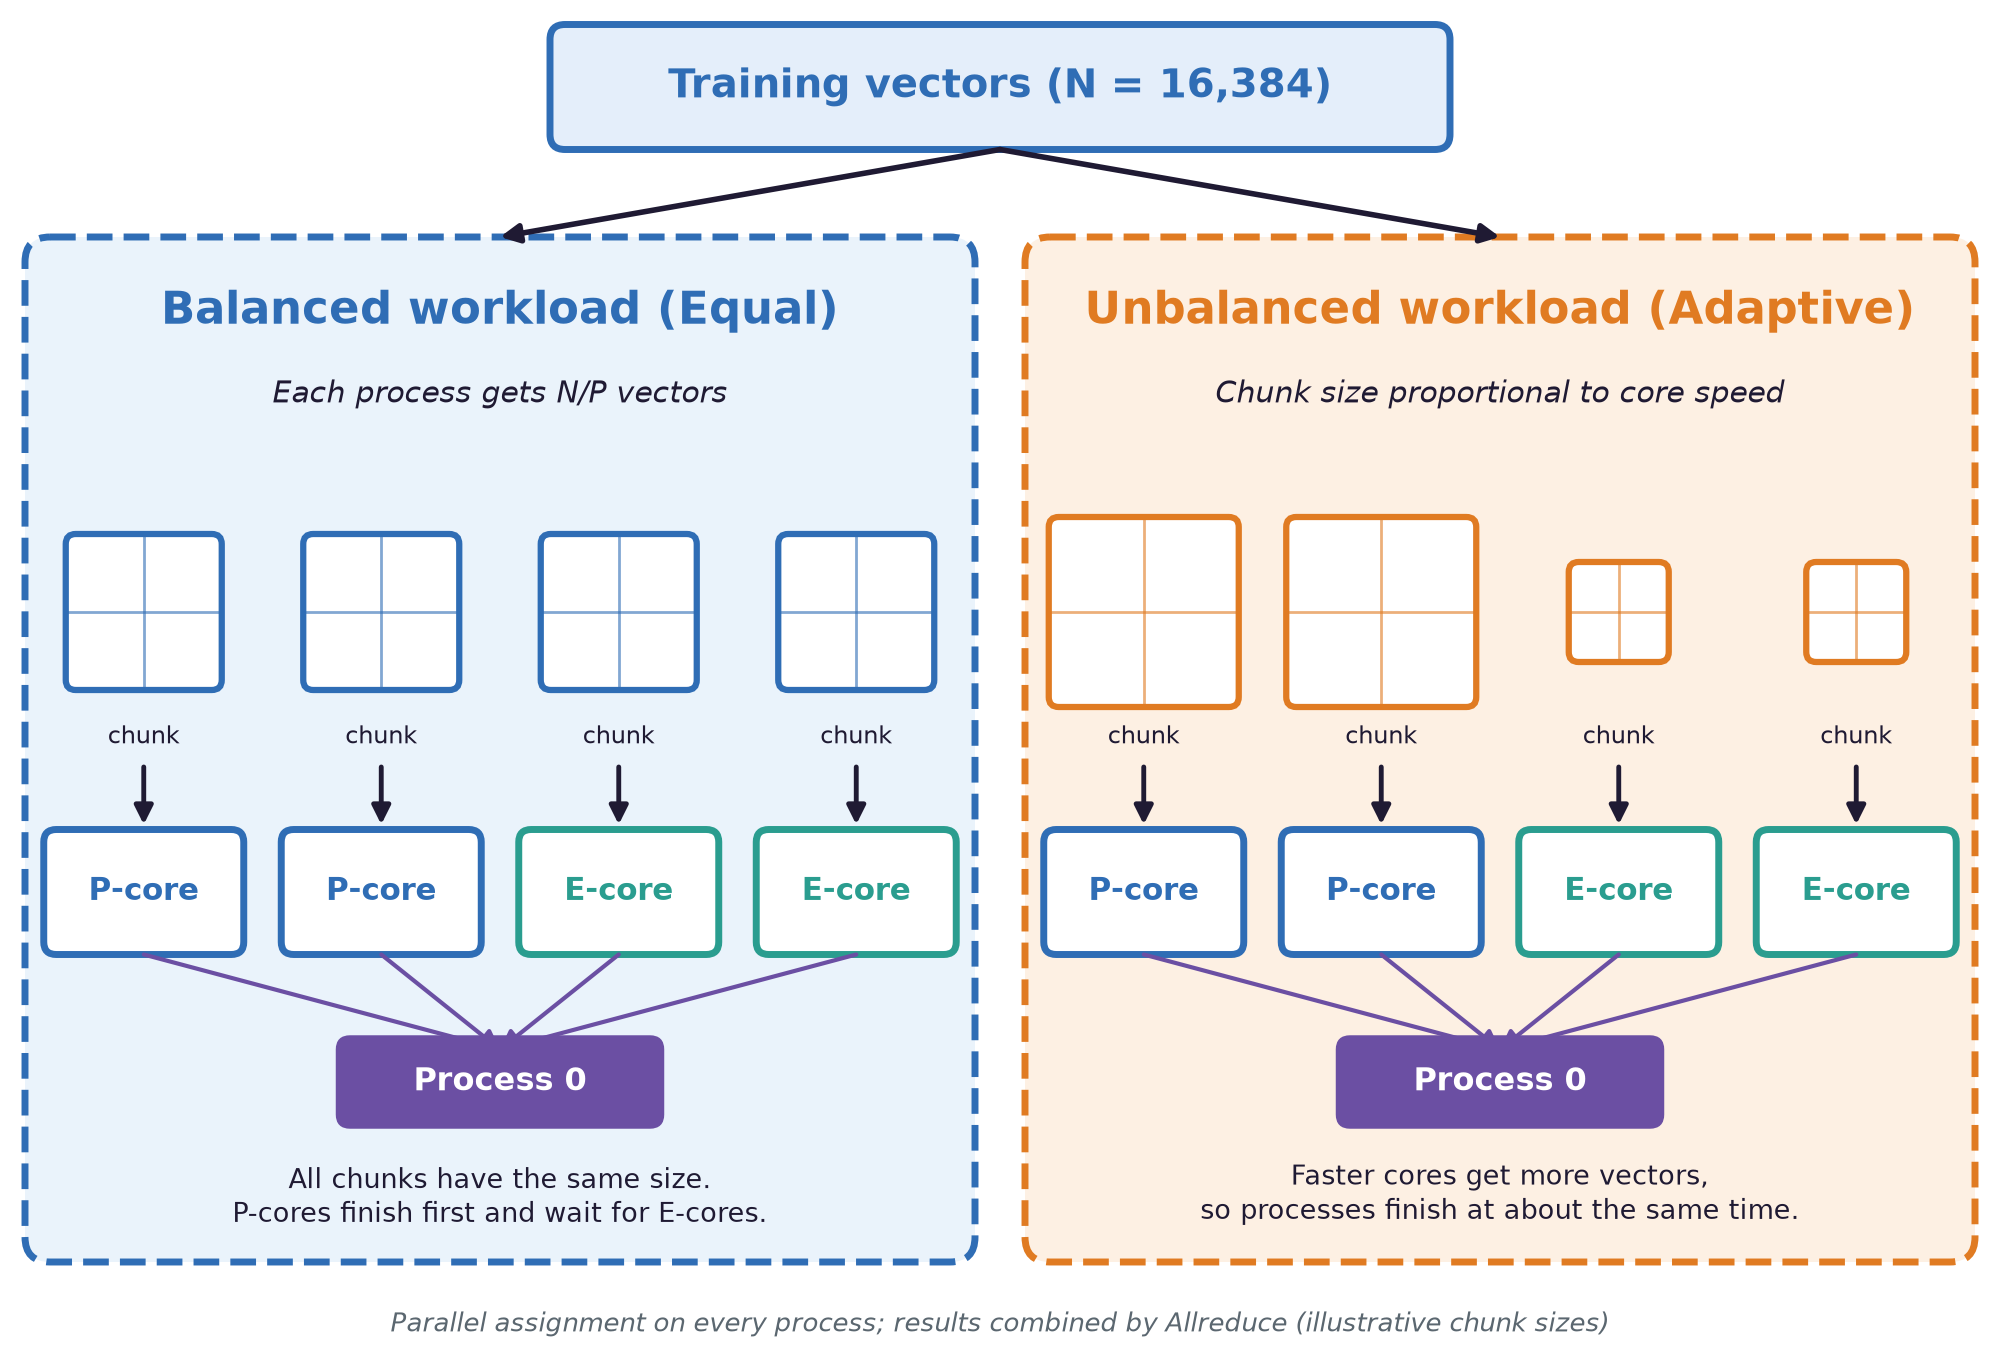
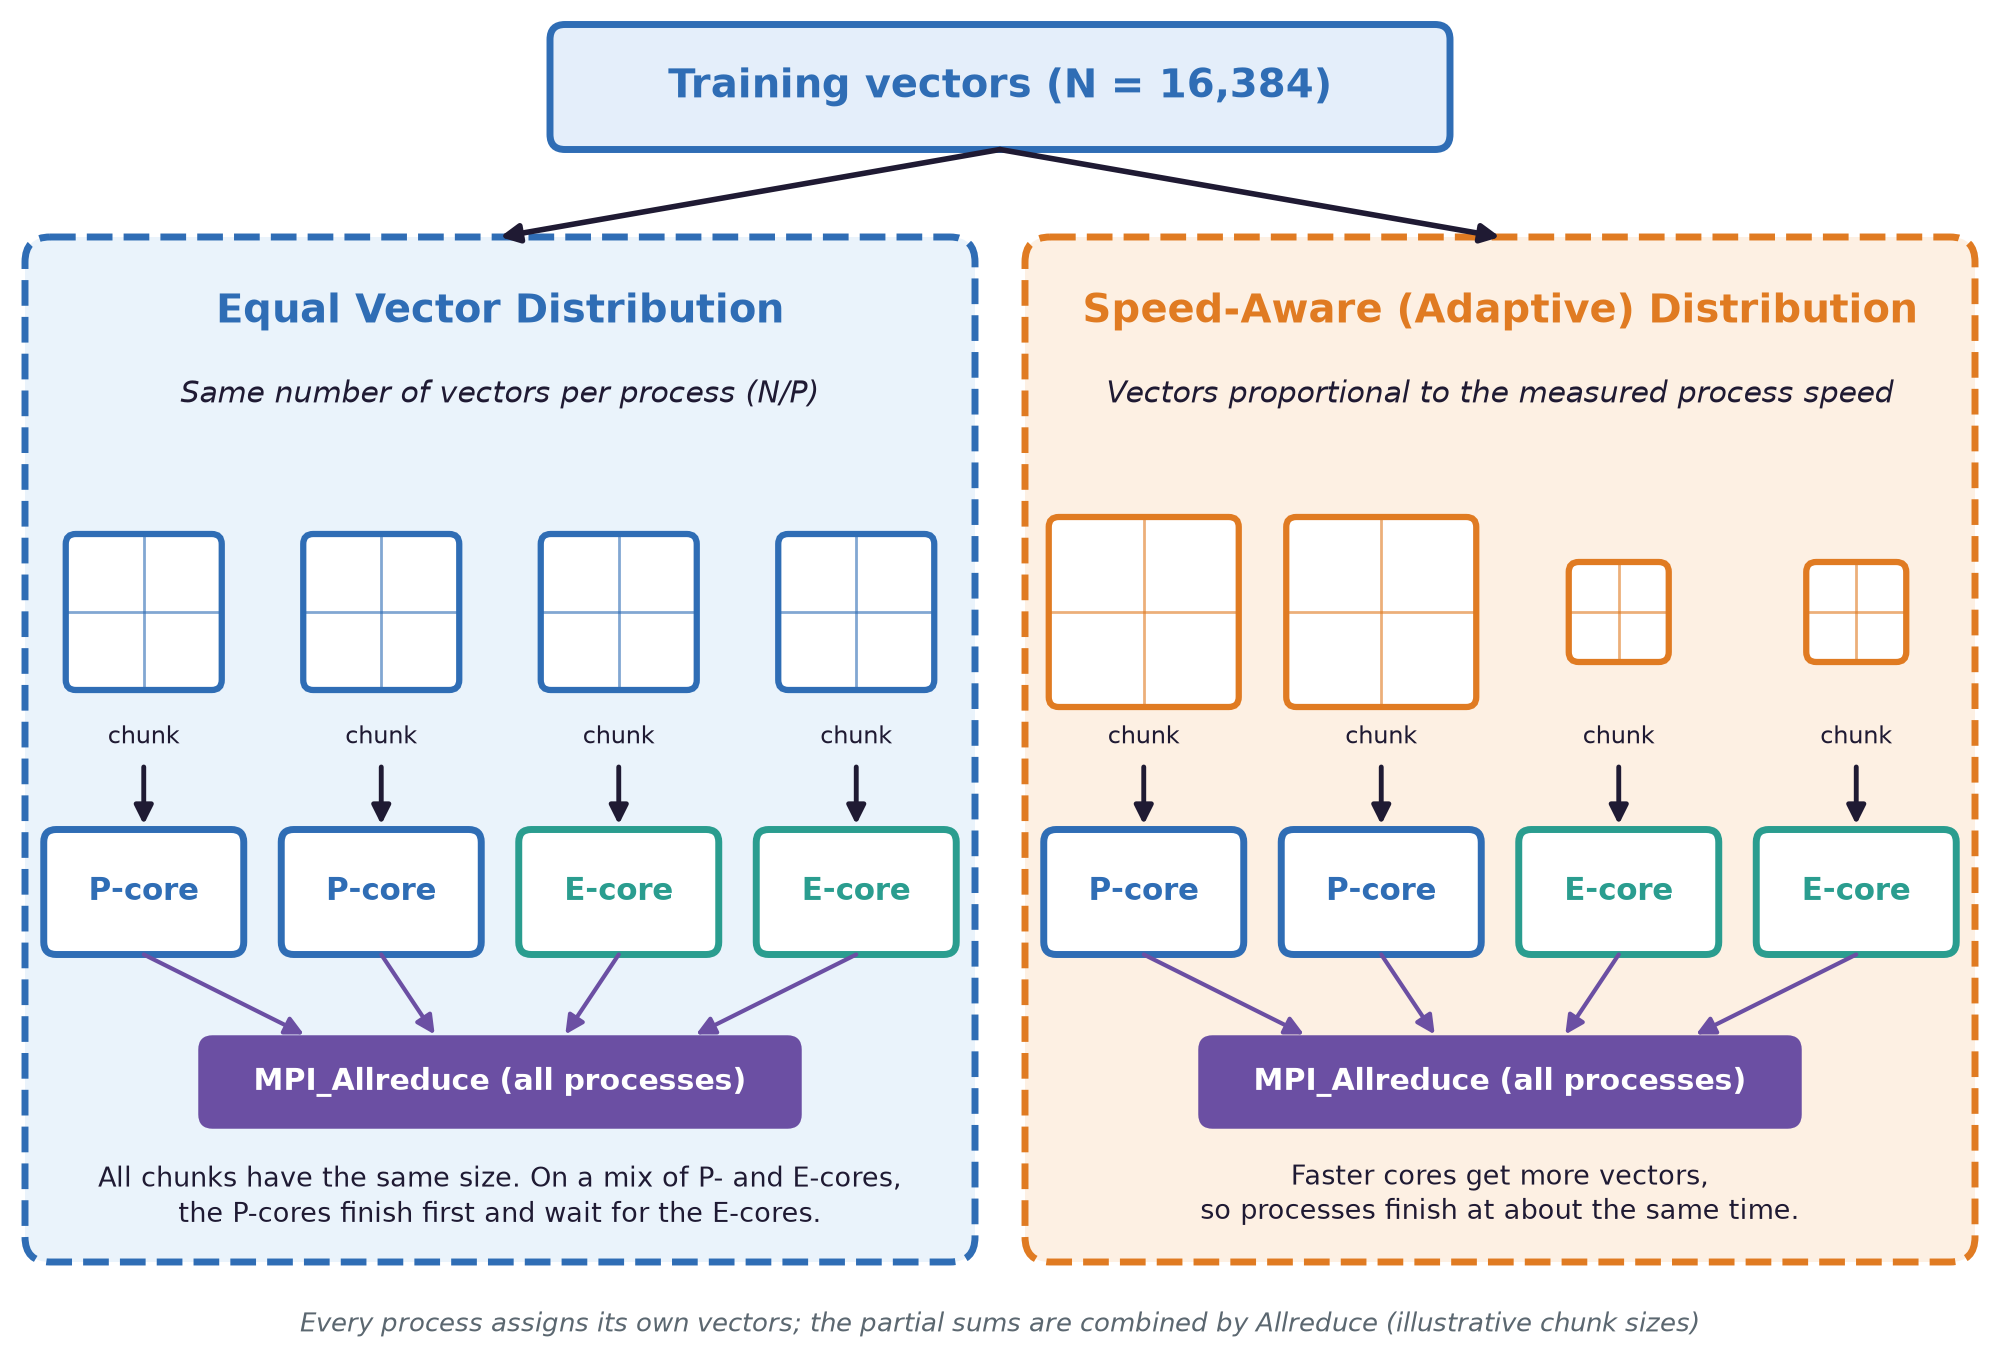
Seminar figures: generic MPI workflow + corrected Equal/Adaptive comparison
Claude-Session: https://claude.ai/code/session_01T6gEewJ8YaCdmnsfS34RJd

diff --git a/results/seminar/make_workload_fig.py b/results/seminar/make_workload_fig.py
@@ -12,15 +12,15 @@ def arrow(x1,y1,x2,y2,col=INK,lw=1.4):
 # top
 box(2.2,0.1,3.6,0.5,"#E4EEFA",BLUE,2)
 ax.text(4,0.35,"Training vectors (N = 16,384)",ha="center",va="center",fontsize=11.5,fontweight="bold",color=BLUE)
-panels=[(0.1,"Balanced workload (Equal)","Each process gets N/P vectors","#EAF3FB",BLUE,[0.78]*4,
-         "All chunks have the same size.\nP-cores finish first and wait for E-cores."),
-        (4.1,"Unbalanced workload (Adaptive)","Chunk size proportional to core speed","#FDF0E3",ORG,[0.95,0.95,0.5,0.5],
+panels=[(0.1,"Equal Vector Distribution","Same number of vectors per process (N/P)","#EAF3FB",BLUE,[0.78]*4,
+         "All chunks have the same size. On a mix of P- and E-cores,\nthe P-cores finish first and wait for the E-cores."),
+        (4.1,"Speed-Aware (Adaptive) Distribution","Vectors proportional to the measured process speed","#FDF0E3",ORG,[0.95,0.95,0.5,0.5],
          "Faster cores get more vectors,\nso processes finish at about the same time.")]
 cores=[("P-core",BLUE),("P-core",BLUE),("E-core",TEAL),("E-core",TEAL)]
 for px,title,sub,fc,ec,sizes,note in panels:
     pw=3.8
     box(px,0.95,pw,4.1,fc,ec,2,0.1,"--")
-    ax.text(px+pw/2,1.25,title,ha="center",va="center",fontsize=13,fontweight="bold",color=ec)
+    ax.text(px+pw/2,1.25,title,ha="center",va="center",fontsize=11.6,fontweight="bold",color=ec)
     ax.text(px+pw/2,1.58,sub,ha="center",va="center",fontsize=8.6,color=INK,style="italic")
     top.__class__ if False else None
     # arrow from top box
@@ -38,9 +38,9 @@ for px,title,sub,fc,ec,sizes,note in panels:
         arrow(cx,3.07,cx,3.3)
         box(cx-0.4,3.32,0.8,0.5,"white",cc,2,0.05)
         ax.text(cx,3.57,cn,ha="center",va="center",fontsize=8.8,fontweight="bold",color=cc)
-        arrow(cx,3.82,px+pw/2,4.2,PUR,1.2)
-    box(px+pw/2-0.65,4.15,1.3,0.36,PUR,PUR,1,0.05)
-    ax.text(px+pw/2,4.33,"Process 0",ha="center",va="center",fontsize=9.2,fontweight="bold",color="white")
+        arrow(cx,3.82,px+pw/2+(cx-px-pw/2)*0.55,4.14,PUR,1.2)
+    box(px+pw/2-1.2,4.15,2.4,0.36,PUR,PUR,1,0.05)
+    ax.text(px+pw/2,4.33,"MPI_Allreduce (all processes)",ha="center",va="center",fontsize=8.6,fontweight="bold",color="white")
     ax.text(px+pw/2,4.78,note,ha="center",va="center",fontsize=7.8,color=INK,linespacing=1.25)
-ax.text(4,5.3,"Parallel assignment on every process; results combined by Allreduce (illustrative chunk sizes)",ha="center",va="center",fontsize=7.4,color="#5B6770",style="italic")
+ax.text(4,5.3,"Every process assigns its own vectors; the partial sums are combined by Allreduce (illustrative chunk sizes)",ha="center",va="center",fontsize=7.4,color="#5B6770",style="italic")
 fig.savefig("figs/Workload_distribution.png")

diff --git a/results/seminar/make_parallel_fig.py b/results/seminar/make_parallel_fig.py
@@ -31,17 +31,17 @@ for yy in [36,29,22,15]:
 ax.text(17.7,25.6,"Scatterv",ha="center",fontsize=9,color=MAG,fontweight="bold")
 
 # 2 ranks
-cols=[PURPLE,PURPLE,TEAL,TEAL]
-labs=["Process 0\nP-core","Process 1\nP-core","Process 2\nE-core","Process P−1\nE-core"]
-shares=["larger share","larger share","smaller share","smaller share"]
+cols=[PURPLE,PURPLE,PURPLE,PURPLE]
+labs=["Process 0","Process 1","Process 2","Process P−1"]
+shares=["local vectors"]*4
 ys=[36,29,22,15]
 for y,c,l,s in zip(ys,cols,labs,shares):
     box(23,y-1.5,16,5.5,c,l+"\n"+s,fs=10)
-ax.text(31,44.5,"Each process gets a chunk (Adaptive shown)",ha="center",fontsize=12,fontweight="bold",color=INK)
-ax.text(31,9.6,"Adaptive: chunk size ∝ core speed",ha="center",fontsize=10,color=INK,style="italic")
+ax.text(31,44.5,"MPI-Based Parallel LBG Training",ha="center",fontsize=12,fontweight="bold",color=INK)
+ax.text(52,9.6,"How the vectors are divided (Equal or Adaptive): next slide",ha="center",fontsize=10,color=INK,style="italic")
 
 # 3 local assignment
-box(52,17,16,14,GOLD,"Local step:\nnearest codeword\nfor each block\n(main cost of LBG)",tc=INK,fs=10.5)
+box(52,17,16,14,GOLD,"Local assignment:\nnearest codeword\nfor each local vector\n(main cost of LBG)",tc=INK,fs=9.6)
 for y,ty in zip(ys,[29.0,25.7,22.3,19.0]): arrow(39.6,y+1.25,51.6,ty,c="#4A4A4A")
 ax.text(56,33.2,"in parallel",ha="center",fontsize=12,fontweight="bold",color=MAG)
 
@@ -50,12 +50,10 @@ ax.text(73,26.4,"Allreduce",ha="center",fontsize=11,color=MAG,fontweight="bold")
 ax.text(73,21.4,"sums from all\nprocesses",ha="center",va="top",fontsize=8.5,color=INK)
 
 # 4 codebook
-box(78,17,11,14,MAG,"New\ncodebook\nK = 64",fs=12)
-arrow(89.5,24,92.3,24)
-box(92.8,19.5,6.4,9,DEEP,"Repeat\nuntil\nconverged",fs=8.5)
-# loop arrow back
-ax.plot([96,96,64],[29.2,40.2,40.2],color=DEEP,lw=2.4,ls="--",solid_capstyle="round")
+box(78,17,17,14,MAG,"Codebook update\n(current size k)",fs=11.5)
+ax.text(86.5,13.2,"k grows by splitting:\n1 → 2 → 4 → … → 64",ha="center",va="center",fontsize=9.5,color=DEEP,style="italic")
+ax.plot([86.5,86.5,64],[31.6,40.2,40.2],color=DEEP,lw=2.4,ls="--",solid_capstyle="round")
 ax.add_patch(FancyArrowPatch((64,40.2),(64,31.6),arrowstyle="-|>",mutation_scale=22,lw=2.4,color=DEEP,linestyle="--"))
-ax.text(80,41.2,"next iteration (new codebook sent to all processes)",ha="center",fontsize=9.5,color=DEEP,style="italic")
+ax.text(75,41.4,"repeat until converged (new codebook sent to all processes)",ha="center",fontsize=9.5,color=DEEP,style="italic")
 
 plt.savefig("/home/user/mihk/results/seminar/figs/parallel_overview.png",bbox_inches="tight",facecolor="white")
